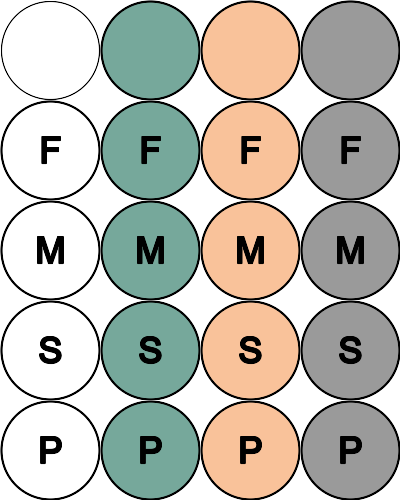
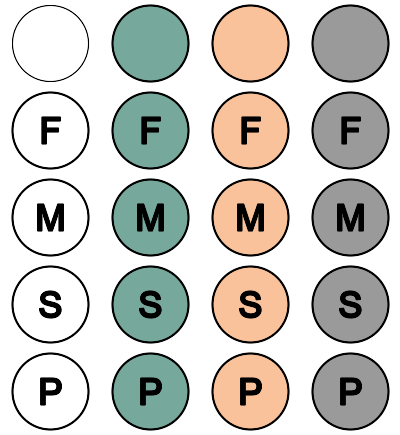
Another attempt at simplifying/regularizing the html/css structure. Key point: having the images for the player pieces be the same rectangular size as the hexes. This works well, but causes a bit of a challenge in reusing them for the hand pieces; in particular highlighting and "empty" used to be do

diff --git a/babylonia.css b/babylonia.css
@@ -52,11 +52,13 @@ body {
 }
 
 
-.board > div > div > div.playable {
+.board > div.playable {
     content: url(img/highlight.png);
     object-fit: cover;
+    /*
     width: 100%;
     height: 100%;
+*/
     /*
     background-color: white;
     opacity: 0.2;
@@ -131,7 +133,7 @@ body {
     background: url(img/cities.png) 0% -1300%;
 }
 
-  .farmer_1,
+  .board > div.farmer_1,
   .merchant_1,
   .servant_1,
   .priest_1,
@@ -151,11 +153,14 @@ body {
   .servant_4,
   .priest_4,
   .hidden_4
-{
+  {
+      clip-path: none;
+      /*
     width: calc(var(--hex-height) - 4px);
     height: calc(var(--hex-height) - 4px);
     margin-top: 3px;
     margin-left: 7px;
+*/
     background-image: url(img/pieces.png);
     background-size: 400% 500%;
 }
@@ -244,15 +249,17 @@ body {
     padding-right: 16px;
 }
 
+
 .hand > div {
     position: relative;
     display: inline-block;
-    width: calc(var(--hex-height) - 4px); // 57px
-    height: calc(var(--hex-height) - 4px); // 57px
+    width: calc(var(--hex-width));
+    height: calc(var(--hex-height));
     background-size: 400% 500%;
     border-radius: 100%;
     border-style: none;
-    margin: 5px;
+    margin-top: 5px;
+    margin-bottom: 5px;
     /* shared with .piece */
     background-image: url(img/pieces.png);
 }
@@ -264,10 +271,15 @@ body {
     border-style: dotted;
     border-color: black;
    */
-
+    height: calc(0.92*var(--hex-height));
+    width: calc(0.92*var(--hex-height));
+    margin-left: calc((var(--hex-width) - var(--hex-height)));
+    margin-right: calc(1.2*(var(--hex-width) - var(--hex-height)));
+    padding: 0px;
+    background-origin: content-box;
     background-image: unset;
     background-color: white;
-    opacity: 0.1;
+    opacity: 0.3;
 }
 
 #hand > div.playable {
@@ -287,10 +299,15 @@ body {
 }
 
 #hand > div.selected {
-    margin: 0px;
+    /*
+    border-radius: 100%;
+    width: calc(var(--hex-height));
+    height: calc(var(--hex-height));
     border-color: yellow;
     border-style: solid;
-    border-width: 5px;
+    border-width: 4px;
+   */
+    content: url(img/piecehl.png);
 /*    opacity: 0.8; */
 }
 

diff --git a/local/map.html b/local/map.html
@@ -67,7 +67,7 @@
             let x = e.id.split("_");
             console.log("selected hex " + x[1] + ", " + x[2]);
             // e.classList.toggle("selected");
-            cycleThings(e.firstElementChild);
+            cycleThings(e);
         }
     }
 
@@ -219,7 +219,7 @@
           <!-- this one was already played -->
           <div id="hand_2"  class="hidden_2"></div>
           <div  id="hand_3" class="farmer_3 selected"></div>
-          <div  id="hand_4" class="merchant_4"></div>
+          <div  id="hand_4" class="empty"></div>
         </div>
       </div>
       <div class="board-spacer"></div>
@@ -239,7 +239,7 @@
                   }
                   b.insertAdjacentHTML(
                       `beforeend`,
-                      `<div id="hex_${r}_${c}" style="top:${top}px; left:${left}px;"><div><div ${cl}></div></div></div>`
+                      `<div ${cl} id="hex_${r}_${c}" style="top:${top}px; left:${left}px;"><div></div></div>`
                   );
               }
           }
